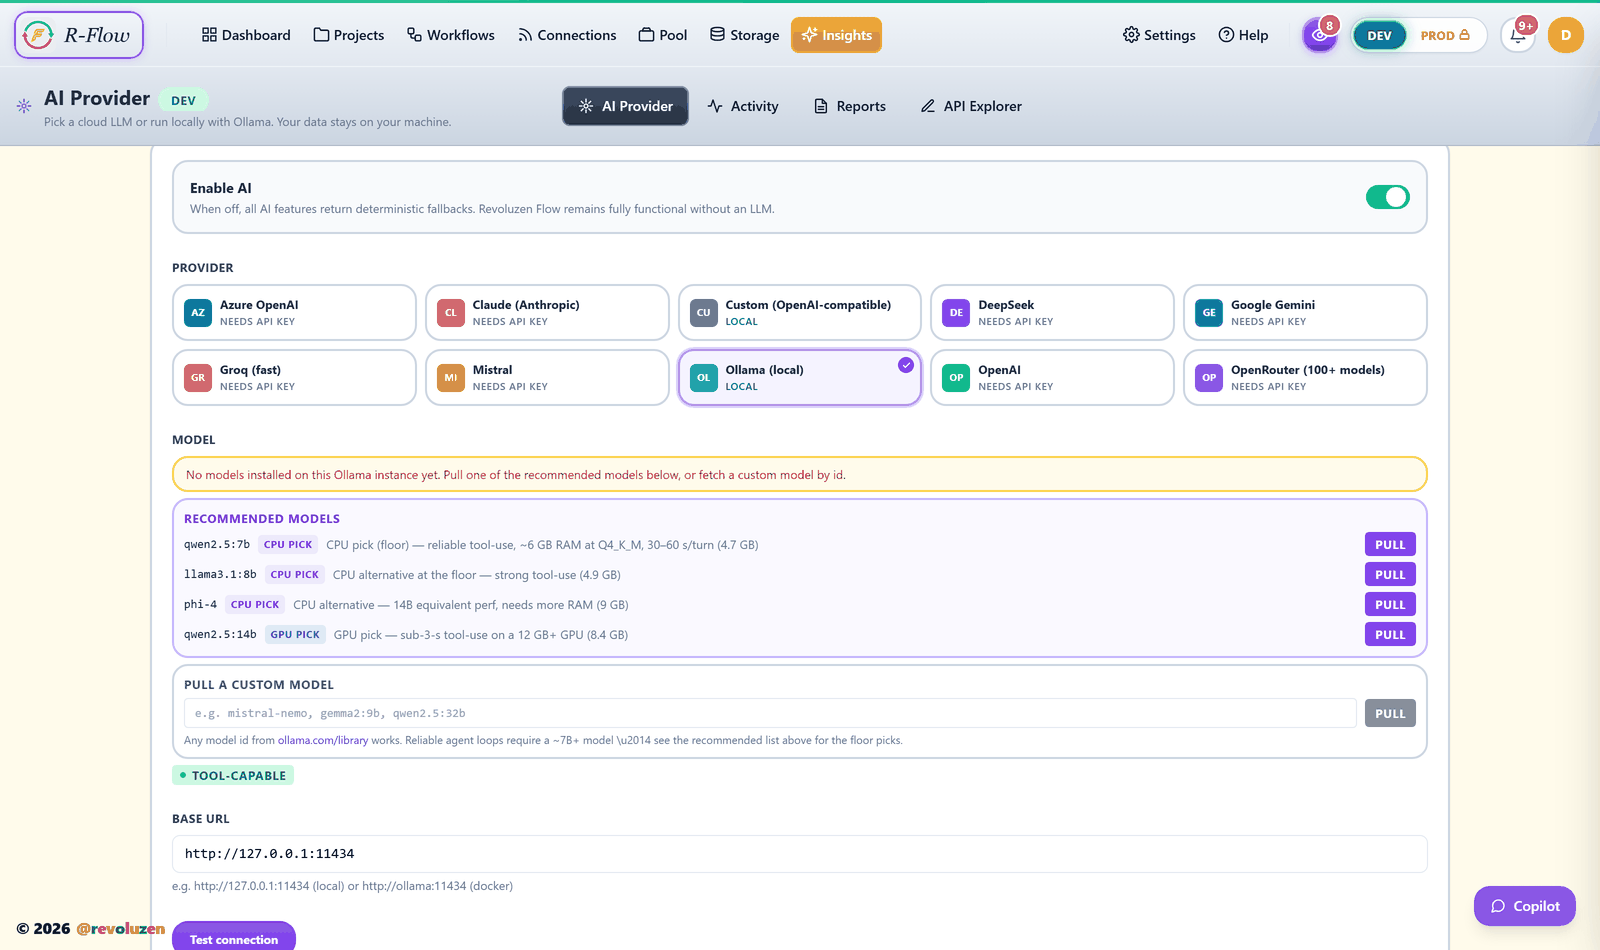
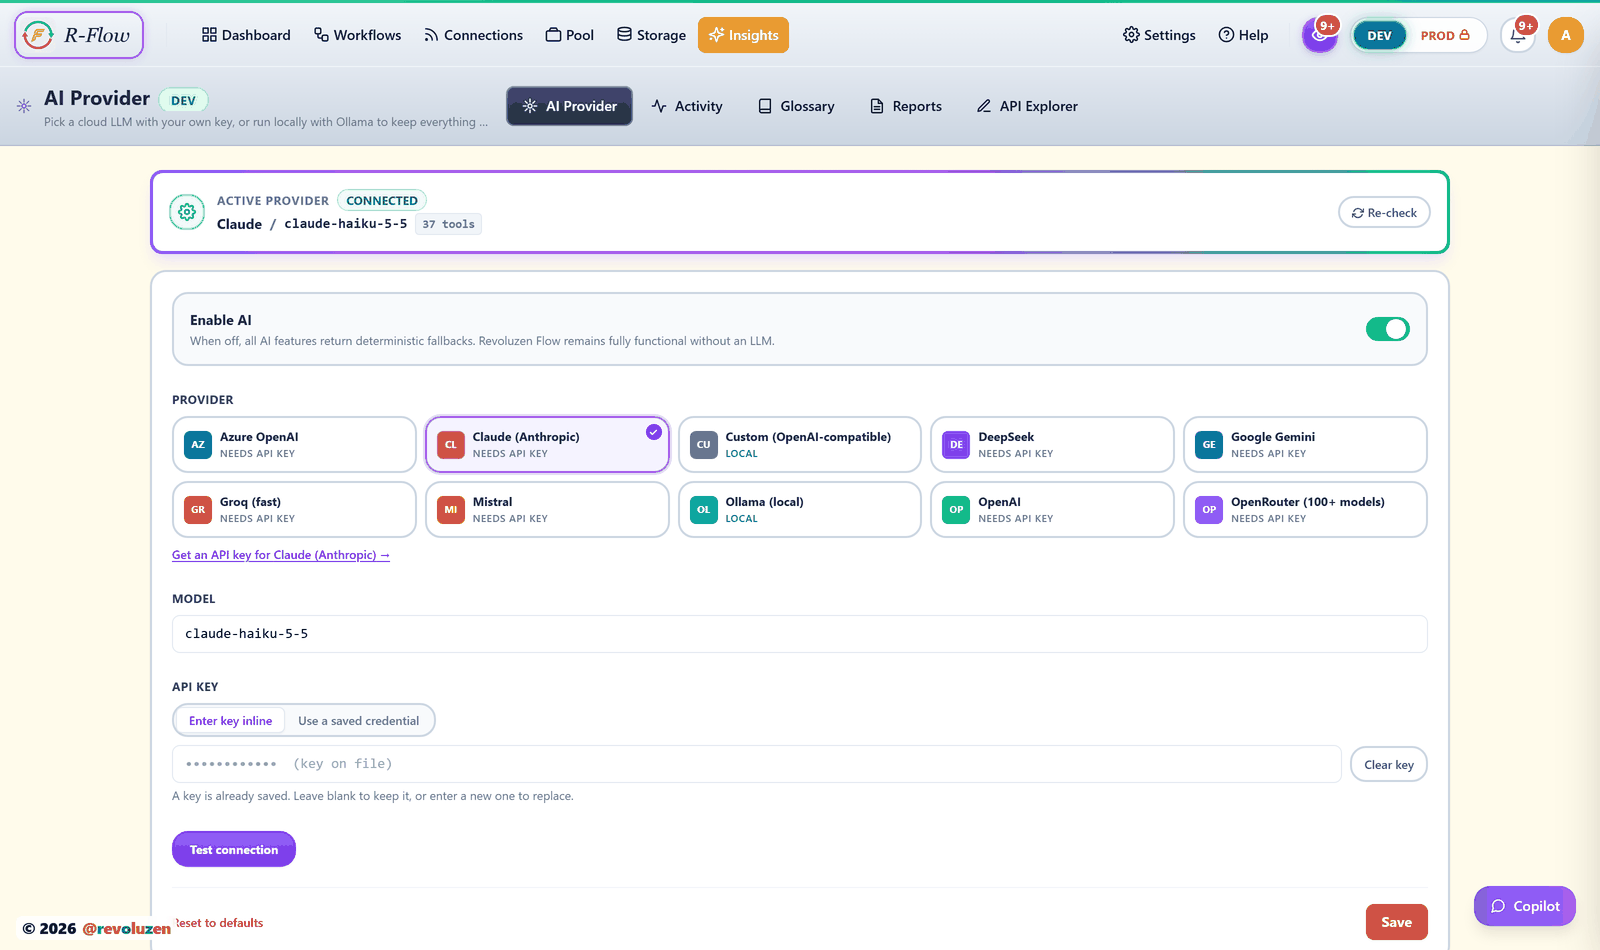
Retake the README screenshots from the current app
The pictures showed the product as it stood in late October, with a
Projects page in the top bar that no longer exists: projects now live in
a panel on the Pipelines page, with their folders beside the list. All
twelve are retaken from this branch, Triggers gets a screen and a short
section, and the project panel gets one of its own.

Captured the same way as before: headless Chromium at 1600x950 and
deviceScaleFactor 2, then halved, then quantised to a 256-colour
palette. 1.5 MB for all fourteen, none above 150 KB. Every capture
checks that the top bar has no Projects item before it shoots, and the
canvas capture asserts 9 nodes with 0 offscreen.

The data is the Coastline Retail demo workspace built for the launch
video, run on a scratch copy with this branch's backend and UI, so it
reads as a company that has used the product for months:

- 33 pipelines across six projects and their folders, schedules from
  every ten minutes to daily and one started by a new file, alerts, a
  contract, and run history written by the workspace's own scheduler
- seven connections, four passing their last test, one failing and
  two never tested
- the demo's two endpoints, one checked by a signature and one by an
  API key
- 22 parquet-backed managed tables, each showing the pipeline that
  prepared it, among them the 34,285-row sales.orders_clean
- Steward findings from Steward's own scans of that workspace

One thing was changed on the copy, and only there: the Revenue by
[…]

diff --git a/README.md b/README.md
@@ -33,7 +33,7 @@ The backend boots on loopback, your browser opens, and you're in. Needs Python
 3.11+ and Node 20+. On Windows, or for Docker, see [Quick start](#quick-start).
 
 <div align="center">
-  <img src="docs/assets/screenshot-editor.png" alt="The Revoluzen Flow canvas: a ten-node pipeline taking two sources through validation and dedupe, into a join, a derived column and an aggregation, then a conditional branch out to a Slack alert and a managed table" width="100%">
+  <img src="docs/assets/screenshot-editor.png" alt="The Revoluzen Flow canvas: a nine-node pipeline, Revenue by Region, open as a draft of a published pipeline, taking orders through a data-quality check and a filter, and customers through a dedupe, into a join, then a derived revenue column and an aggregation by region into a managed table" width="100%">
   <em>Build pipelines on a canvas · 45 node types · 68 connectors · run, schedule and alert from the same place</em>
 </div>
 
@@ -285,67 +285,80 @@ have an EV certificate and Apple notarization.
 
 ## What it looks like
 
-**Pipelines** — status, owner, schedule, alerts and last run, per project.
+**Pipelines** — status, schedule, alerts, contracts and last run, with your
+projects in a panel beside the list.
 
-<img src="docs/assets/screenshot-pipelines.png" alt="The Pipelines list showing eight pipelines across four projects with published and draft status, schedules, alerts and last-run times" width="100%">
+<img src="docs/assets/screenshot-pipelines.png" alt="The Pipelines page with the projects panel on the left listing six projects and their pipeline counts, and the list of all 33 pipelines on the right, published and draft, with project and folder, last run, schedules from hourly to daily, alert and contract columns with one four-guarantee contract, and Run and Edit on every row" width="100%">
+
+**Projects and folders** — pick a project in the panel to see only its
+pipelines, its owner and its folders, and add a folder or edit the project
+from the same place.
+
+<img src="docs/assets/screenshot-projects.png" alt="The Pipelines page with the Supply Chain project selected in the projects panel and opened to its two folders, Partner feeds and Stock, showing its owner and eight pipelines with their schedules — every ten minutes, hourly, daily, and one that starts when a new file arrives — two with an alert, and the managed tables each one writes" width="100%">
 
 **Connections** — one open framework across databases, warehouses, object
 stores, streams and SaaS APIs, each with its own health state.
 
-<img src="docs/assets/screenshot-connections.png" alt="The Connections page listing twelve connections across Postgres, MySQL, Snowflake, BigQuery, S3, Kafka, MongoDB, Redshift, ClickHouse, SFTP, Elasticsearch and Databricks with per-connection test status" width="100%">
+<img src="docs/assets/screenshot-connections.png" alt="The Connections page listing seven connections — three REST APIs, a partner FTP server, a Windows file share, a Kafka stream and a SQLite database — with scope, the pipelines using each, a description and the last test: four passing, one failing and two untested" width="100%">
 
 **Executions** — every run, its steps, rows and duration.
 
-<img src="docs/assets/screenshot-executions.png" alt="The Executions page showing run history with status, pipeline, environment, trigger, start time, elapsed time and step counts" width="100%">
+<img src="docs/assets/screenshot-executions.png" alt="The Executions page filtered to one pipeline over the last 24 hours: eight Store Footfall runs, seven successful and one error with one of its three steps failed, started by the schedule or a pre-publish test, each with environment, start time, elapsed time and step count" width="100%">
 
 **One run, opened** — runtime lineage of what actually ran, with rows in and
 out of each step, per-step timings, peak memory and CPU. Click any node to
 read the rows it produced, as a table, a schema or raw JSON, and export them.
 Re-run and Replay sit on the same screen.
 
-<img src="docs/assets/screenshot-execution-detail.png" alt="An execution summary showing four passed steps in sequence — source, filter, aggregate, sink — each with its row count and duration, with the aggregate node selected and its three output rows of revenue and order counts per region open below the graph, exportable as CSV or JSON" width="100%">
+<img src="docs/assets/screenshot-execution-detail.png" alt="An execution summary for Stock Value by Warehouse showing six passed steps — two sources joined, a derived stock value, an aggregate by warehouse and a managed-table sink — each with its row count and duration, with the aggregate node selected and its output rows of stock value and line count per warehouse open below the graph, exportable as CSV or JSON" width="100%">
 
 **Every step, with its data** — open a step to see the parameters it ran with,
 the rows it received from upstream, and the rows it produced. Samples are
 captured at run time, so you are reading what the run actually did rather than
 re-querying a source that has since moved on.
 
-<img src="docs/assets/screenshot-step-output.png" alt="An expanded aggregate step showing three panels: its group-by and function configuration, a sample of the six rows received from the upstream filter, and the three rows it produced — revenue and order counts per region, with column types" width="100%">
+<img src="docs/assets/screenshot-step-output.png" alt="An expanded aggregate step showing three panels: its group-by and sum and count configuration, a sample of the 1,300 rows received from the upstream derived column, and the five rows it produced — stock value and line count per warehouse, with column types" width="100%">
+
+**Triggers** — let another application start a pipeline and pass it values.
+Give the pipeline an endpoint, choose how callers prove who they are, and
+copy the ready-to-use curl or PowerShell command.
+
+<img src="docs/assets/screenshot-triggers.png" alt="The Triggers page with two endpoints, one checked by a signature and one by an API key, and the ready-to-use curl command for the regional-revenue endpoint — a POST to localhost:8001 with an X-API-Key header and a JSON body setting the region to EMEA — explained line by line, with the pipeline's region parameter listed below" width="100%">
 
 **Storage** — managed parquet tables written by your pipelines.
 
-<img src="docs/assets/screenshot-storage.png" alt="The Storage page listing managed parquet tables with row counts, column counts and sizes" width="100%">
+<img src="docs/assets/screenshot-storage.png" alt="The Managed Tables page listing 22 parquet tables across crm, finance and other schemas, each with the pipeline and version that prepared it and when it was loaded, its row count, column count, size and the pipelines that use it" width="100%">
 
 **Any dataset, inspected** — open a table to read its rows and column types,
 see which pipeline produced it and which ones consume it.
 
-<img src="docs/assets/screenshot-dataset.png" alt="A managed parquet table opened in the dataset viewer, showing a thousand rows across nine typed columns with the file it was promoted from and how many pipelines consume it" width="100%">
+<img src="docs/assets/screenshot-dataset.png" alt="The sales.orders_clean managed table opened in the dataset viewer: 34,285 rows across ten typed columns, produced by Orders Daily Load with its last successful run, consumed by two pipelines, and Preview, Schema, Profile, Tests and History tabs" width="100%">
 
 **Steward** — a read-only reliability layer that watches for schema drift,
 null and duplicate spikes, connector failures and PII exposure, and tells you
 how many scans it has seen each one in.
 
-<img src="docs/assets/screenshot-steward.png" alt="The Steward findings panel showing eight open findings across schema drift, null spikes, a duplicate-key spike and PII detections, each with severity, category and resolve or dismiss actions" width="100%">
+<img src="docs/assets/screenshot-steward.png" alt="The Steward findings panel open over the Pipelines page, its findings split across architecture, connector, data, governance and node checks and filtered to node findings: row counts that changed in steps that should preserve them, each with priority, severity, how many scans have seen it, and resolve, dismiss or Ask Copilot actions" width="100%">
 
 **Bring your own LLM — or keep it on your machine.** Ten providers, two of
 them local. Point it at Ollama and pull a model from the list; nothing leaves
 the host. AI is optional throughout: turn it off and every feature falls back
 to a deterministic path, with the engine unchanged.
 
-<img src="docs/assets/screenshot-ai.png" alt="The AI provider page with AI enabled and Ollama selected as a local provider, showing ten providers, a catalogue of recommended local models with their RAM and speed trade-offs and a pull button for each, and a localhost base URL" width="100%">
+<img src="docs/assets/screenshot-ai.png" alt="The AI provider page with AI enabled and Claude selected from ten providers, two of them local, the active provider shown as connected with its model and 37 tools, and the API key held on file rather than displayed" width="100%">
 
 <details>
 <summary><strong>More screens — Execution Pool, API Explorer</strong></summary>
 
-**Execution Pool** — concurrency, reserved capacity per environment, and what
-is waiting for a slot.
+**Execution Pool** — concurrency, what is waiting for a slot, and what each
+run cost in time, memory and CPU.
 
-<img src="docs/assets/screenshot-pool.png" alt="The Execution Pool page showing worker slots, reserved capacity split between production and development, and queue depth" width="100%">
+<img src="docs/assets/screenshot-pool.png" alt="The Execution Pool's run history: 200 recent runs with priority, worker, status, trigger, a duration bar, start time, peak memory and CPU seconds for each" width="100%">
 
 **API Explorer** — load a spec, send one authenticated request, assert on the
 response, then generate a connector from it.
 
-<img src="docs/assets/screenshot-api-explorer.png" alt="The API Explorer page for loading an OpenAPI spec, sending an authenticated request and generating a connector from the response" width="100%">
+<img src="docs/assets/screenshot-api-explorer.png" alt="The API Explorer after one GET request to a public exchange-rates API with two query parameters: an HTTP 200 response shown as a JSON tree, the choose-an-endpoint and test-it steps ticked, and generating a connector as the next step" width="100%">
 
 </details>
 
